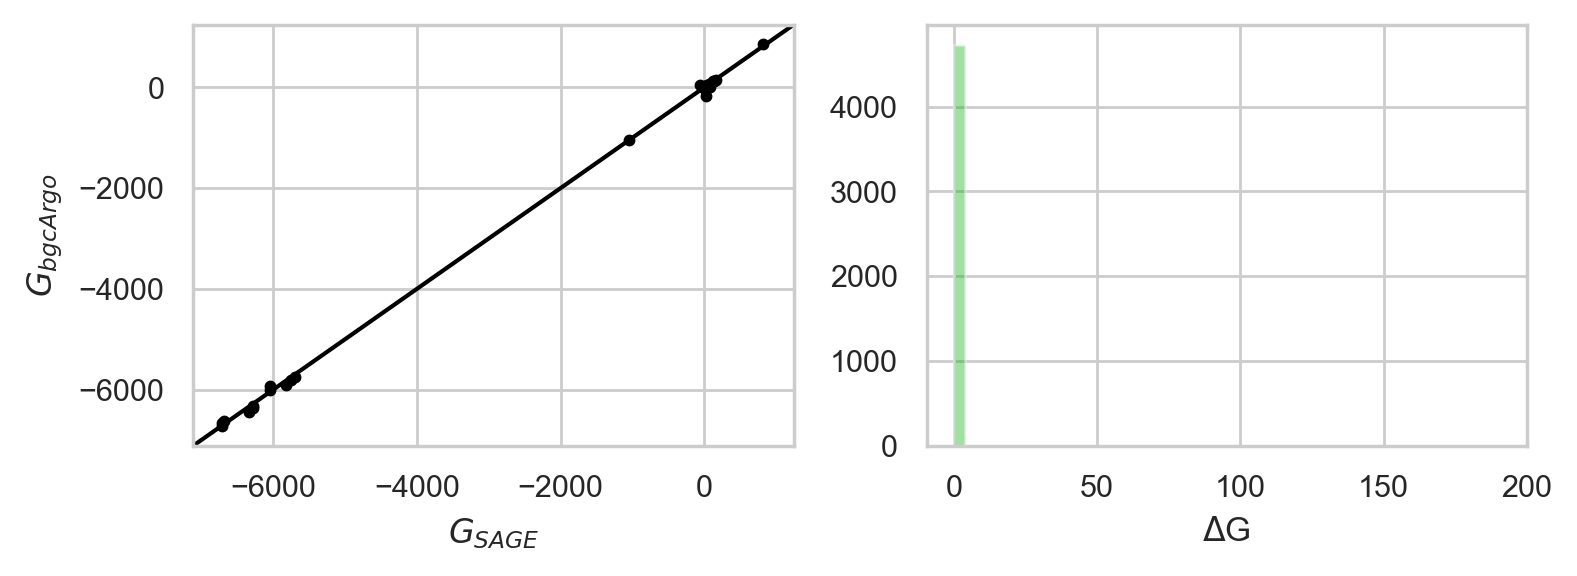
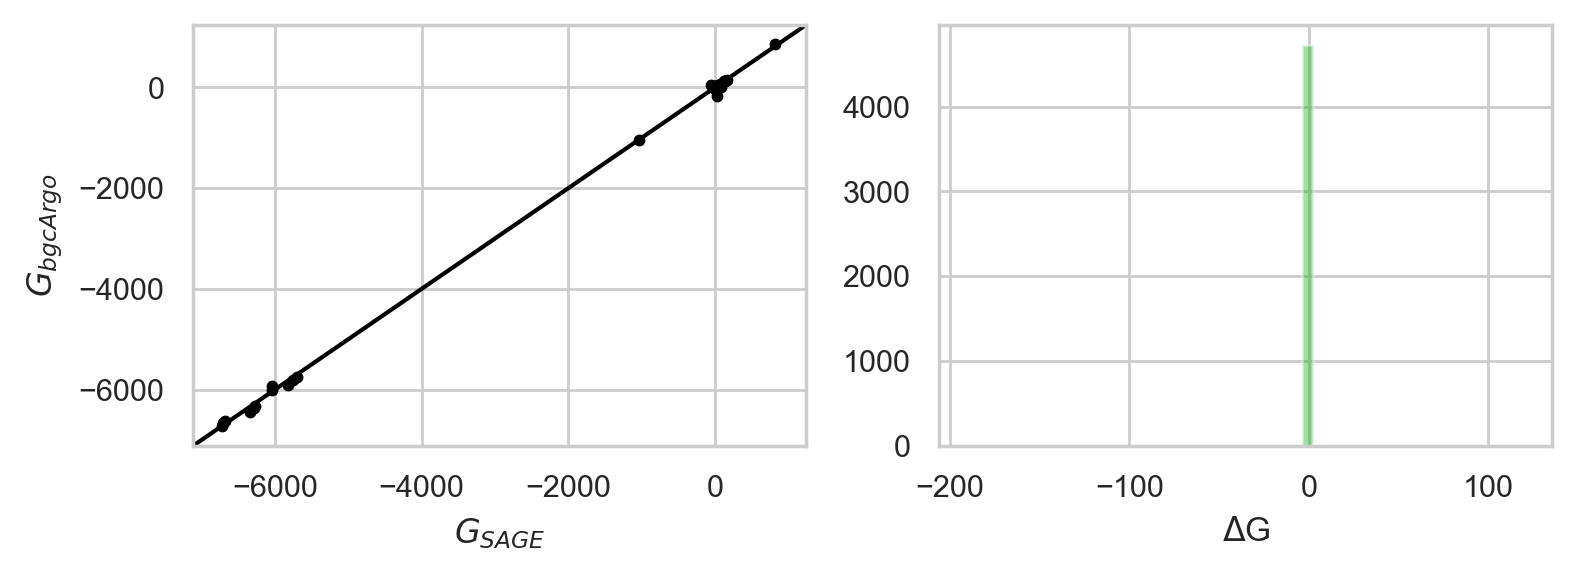
re-ran figures, pct difference

diff --git a/validation/comparison_summary_figures.py b/validation/comparison_summary_figures.py
@@ -13,9 +13,10 @@ from pywaffle import Waffle
 # summary comparison between bgcArgo and SAGE/DOXY audit
 fn = Path('../data/doxy_audit_vs_bgcArgo_py_comparison_20200920.csv')
 df = pd.read_csv(fn)
-df['absdiffGAIN'] = np.abs(df.pyGAIN - df.sageGAIN)
-df['diffGAIN'] = np.abs(df.pyGAIN - df.sageGAIN)
-
+df['diffGAIN'] = df.pyGAIN - df.sageGAIN
+df['absdiffGAIN'] = np.abs(df.diffGAIN)
+df['pctGAIN'] = 100*(df.pyGAIN - df.sageGAIN)/df.sageGAIN
+df['abspctGAIN'] = np.abs(df.pctGAIN)
 # make new dataframe with categories depending on absolute deviation
 counts = pd.DataFrame(dict(N=np.array([df.shape[0],df[df.absdiffGAIN < 0.01].shape[0],
                             df[np.logical_and(df.absdiffGAIN >= 0.01, df.absdiffGAIN < 0.05)].shape[0],
@@ -27,8 +28,19 @@ counts = pd.DataFrame(dict(N=np.array([df.shape[0],df[df.absdiffGAIN < 0.01].sha
                                         '0.05 <= AD < 0.2', 'AD >= 0.2',
                                         'NaN valued', 'Both inf valued',])))
 
+pctCounts = pd.DataFrame(dict(N=np.array([df.shape[0],df[df.abspctGAIN < 1].shape[0],
+                            df[np.logical_and(df.abspctGAIN >= 1, df.abspctGAIN < 5)].shape[0],
+                            df[np.logical_and(df.abspctGAIN >= 5, df.abspctGAIN < 20)].shape[0],
+                            df[df.abspctGAIN >= 20].shape[0],
+                            np.sum(df.pyGAIN.isna()),
+                            np.sum(np.logical_and(np.isinf(df.pyGAIN), np.isinf(df.sageGAIN)))]),
+                        name=np.array(['Total', '%diff < 1', '1 <= %diff < 5',
+                                        '5 <= %diff < 20', '%diff >= 20',
+                                        'NaN valued', 'Both inf valued',])))
+
 # calculate percent
 counts[' '] = counts.N/counts.N.iloc[0]*100
+pctCounts[' '] = pctCounts.N/pctCounts.N.iloc[0]*100
 # don't need total now
 counts = counts[counts.name != 'Total']
 colors = ['green', 'light green', 'yellow', 'red', 'grey', 'black']
